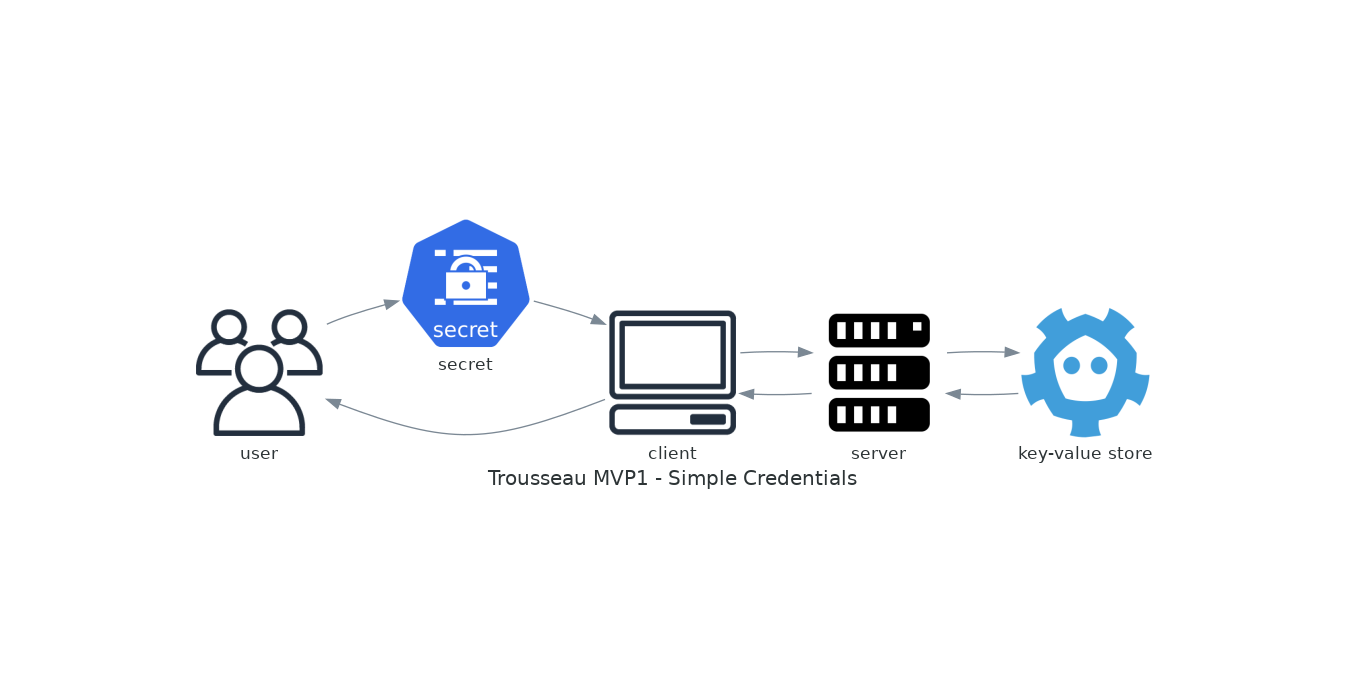
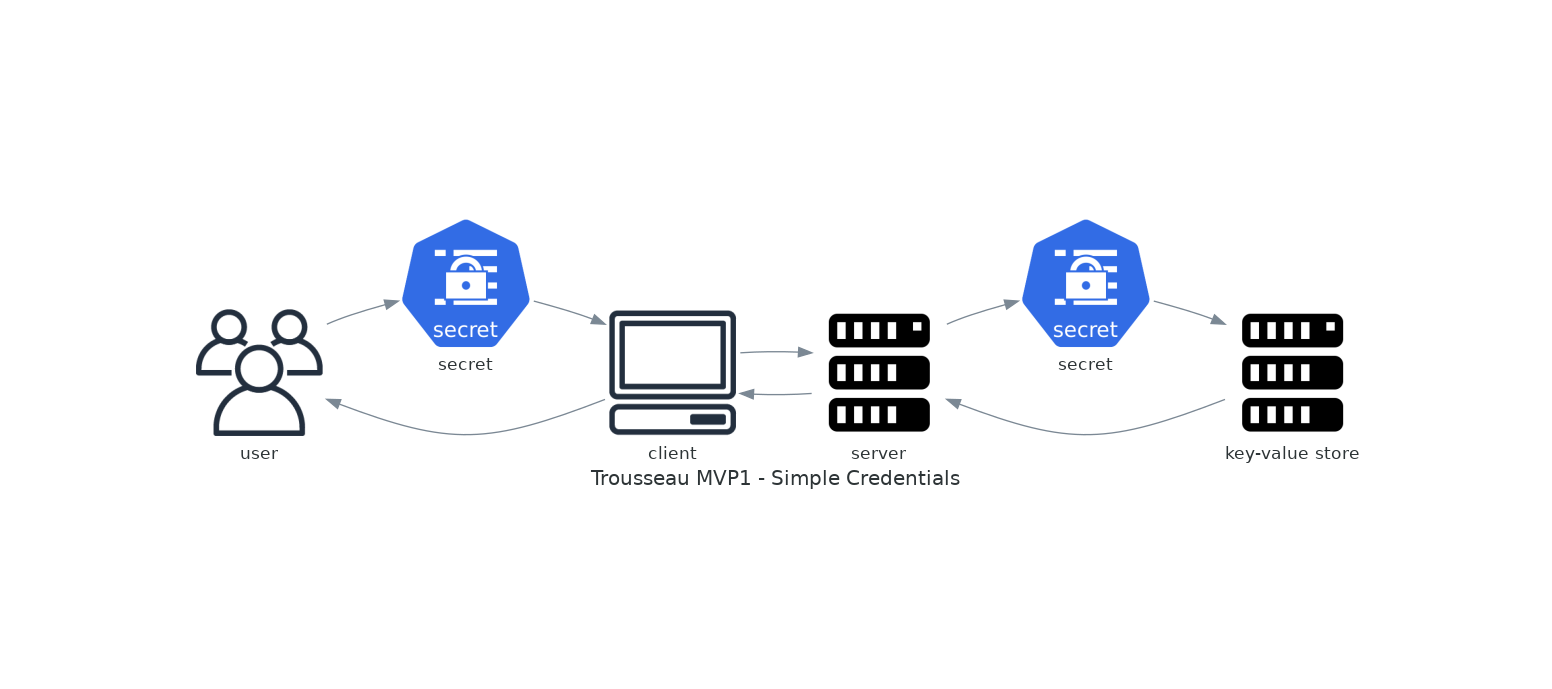
working on MVP1 architecture

Changed region(s): [[0.1249, 0.3048, 0.8743, 0.701]]

diff --git a/assets/diagrams/mvp1_credentials.py b/assets/diagrams/mvp1_credentials.py
@@ -15,10 +15,12 @@ graph_attr = {
 with Diagram("Trousseau MVP1 - Simple Credentials", show=False, direction="LR", graph_attr=graph_attr):
     user = Users("user")
     cli = Client("client")
-    secret = Secret("secret")
+    secret1 = Secret("secret")
+    secret2 = Secret("secret")
     server = Server("server")
-    keyvalue = Etcd("key-value store")
+    keyvalue = Server("key-value store")
 
-    user >> secret >> cli >> server >> keyvalue
+    user >> secret1 >> cli 
+    cli >> server >> secret2 >> keyvalue
     keyvalue << server << cli << user
 

diff --git a/index.md b/index.md
@@ -6,7 +6,7 @@ layout: default
 
 Trousseau secures and provides access Secrets for Kubernetes and more, either on-premises, in the cloud or hybrid.<br>
 
-### Why Trousseau
+### why Trousseau
 
 Kubernetes users are always facing the very same question; how will we handle our Secrets? From a pure Kubernetes
 perspectives, the by-design solution using etcd w/o encryption is not enough. 
@@ -15,7 +15,7 @@ way with unique features.
 
 Trousseau is a completly open source and design to be a solution in a landscape where there isn't many options to chose from. 
 
-### What Trousseau will provide
+### what Trousseau will provide
 
 * A easy deployment using an operator
 * A sidecar option to proxy authentication towards external services
@@ -25,7 +25,7 @@ Trousseau is a completly open source and design to be a solution in a landscape 
 ### about the name
 The name "Trousseau" comes from the French language used within the context of "Trousseau de clés" or "Keyring".
 
-## Documentation 
+## documentation 
 
 [Architecture](./001-architecture.html) <br>
 [Quickstart guide](./002-quickstart.html) <br>

diff --git a/001-architecture.md b/001-architecture.md
@@ -8,7 +8,7 @@ layout: default
 
 As per Trousseau [roadmap](./005-roadmap.html), releases are defined as a MVP or Minimal Viable Product with a well defined set of features. The 
 
-## Near-future 
+## near-future 
 
 ### MVP1.0
 The version 1.0 target a production grade MVP with a limited set of features matching 3 simple use cases.
@@ -29,10 +29,10 @@ Features
 * Validate authorization access 1 single simple policy (if identity ok, access granted)
 
 ### MVP1.0 blueprint 
+The architecture takes into consideration two 
 
 
 
 
-
-## Future work
+## future work
 TODO
